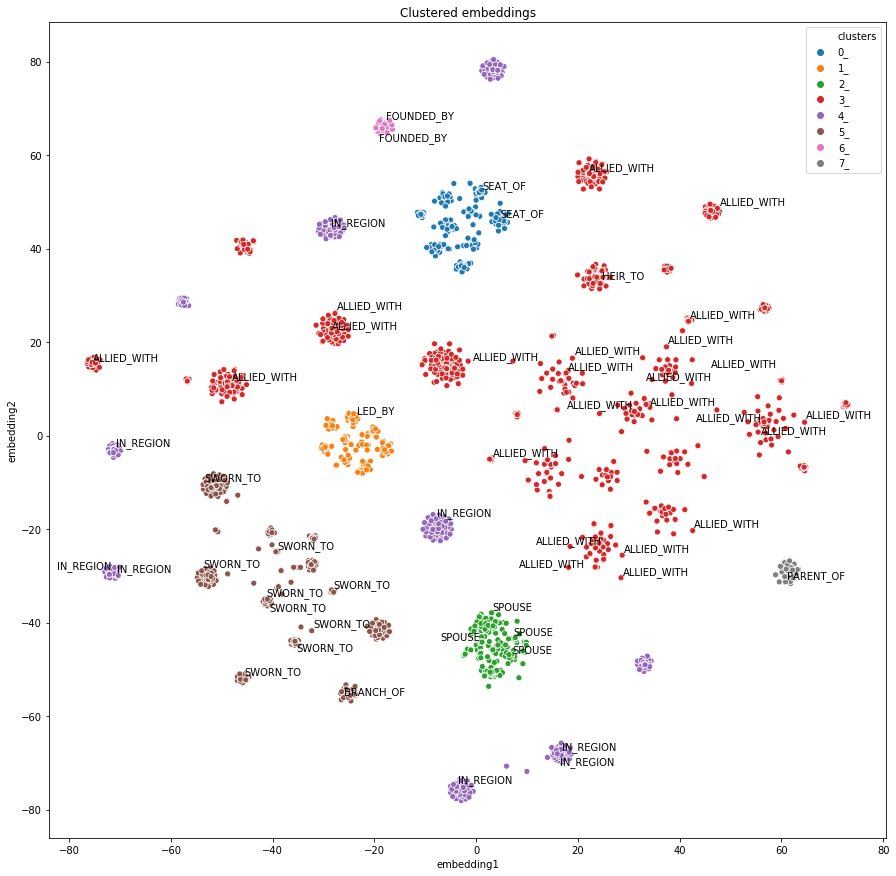
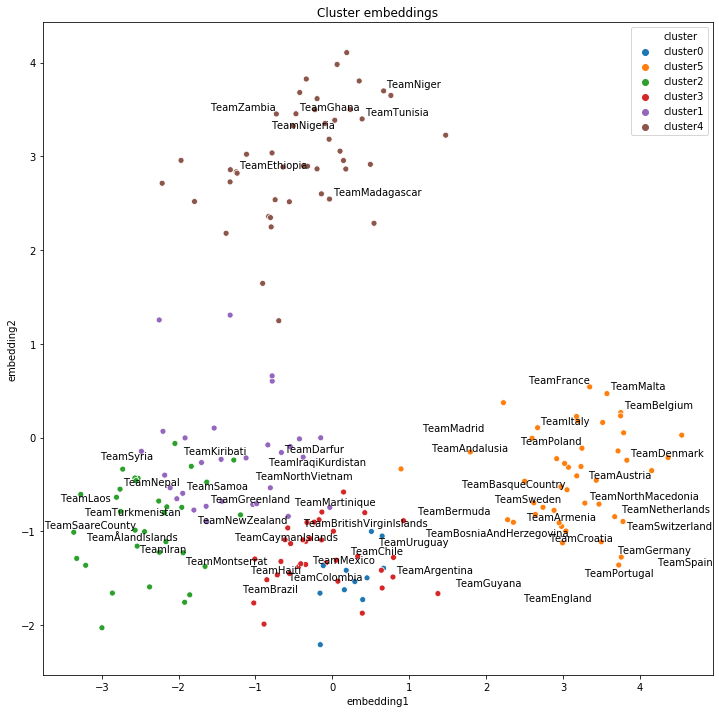
Improving find_duplicates API and docstring

diff --git a/ampligraph/discovery/discovery.py b/ampligraph/discovery/discovery.py
@@ -373,7 +373,7 @@ def _setdiff2d(A, B):
     return A[~ np.sum(np.cumsum(tmp, axis=0) * tmp == 1, axis=1).astype(bool)]
 
 
-def find_clusters(X, model, clustering_algorithm=DBSCAN(), entities_subset=None, relations_subset=None):
+def find_clusters(X, model, clustering_algorithm=DBSCAN(), mode="triple"):
     """
     Perform link-based cluster analysis on a knowledge graph.
 
@@ -383,8 +383,11 @@ def find_clusters(X, model, clustering_algorithm=DBSCAN(), entities_subset=None,
     Parameters
     ----------
 
-    X : ndarray, shape [n, 3]
-        The input knowledge graph (triples) to be clustered.
+    X : ndarray, shape [n, 3] or [n]
+        The input to be clustered.
+        X can either be the triples of a knowledge graph, its entities, or its relations.
+        The argument `mode` defines whether X is supposed an array of triples
+        or an array of either entities or relations.
     model : EmbeddingModel
         The fitted model that will be used to generate the embeddings.
         This model must have been fully trained already, be it directly with
@@ -397,16 +400,13 @@ def find_clusters(X, model, clustering_algorithm=DBSCAN(), entities_subset=None,
         to understand the clustering API provided by scikit-learn.
         The default clustering model is sklearn's DBSCAN with its default
         parameters.
-    entities_subset: ndarray, shape [n]
-        The entities to consider for clustering. This is a subset of all the
-        entities included in X.
-        If None, all entities will be clustered.
-        To exclude all relations from clustering, pass an empty array.
-    relations_subset: ndarray, shape [n]
-        The relation types to consider for clustering. This is a subset of
-        all the relation types included in X.
-        If None, all relations will be clustered.
-        To exclude all relations from clustering, pass an empty array.
+    mode: str
+        Clustering mode, whether 'triple', 'entity', or 'relation'.
+        For 'triple' clustering, the algorithm will cluster the concatenation
+        of the embeddings of the subject, predicate and object for each triple.
+        For 'entity' or 'relation' clustering, the algorithm will simply cluster
+        the embeddings of either the provided entities or relations.
+        Default: 'triple'.
 
     Returns
     -------
@@ -418,8 +418,8 @@ def find_clusters(X, model, clustering_algorithm=DBSCAN(), entities_subset=None,
     >>> import requests
     >>> import pandas as pd
     >>> import numpy as np
-    >>> from sklearn.manifold import TSNE
-    >>> from sklearn.cluster import DBSCAN
+    >>> from sklearn.decomposition import PCA
+    >>> from sklearn.cluster import KMeans
     >>> import matplotlib.pyplot as plt
     >>> import seaborn as sns
     >>>
@@ -428,88 +428,90 @@ def find_clusters(X, model, clustering_algorithm=DBSCAN(), entities_subset=None,
     >>>
     >>> from ampligraph.datasets import load_from_csv
     >>> from ampligraph.latent_features import ComplEx
-    >>> from ampligraph.discovery import find_clusters
+    >>> #from ampligraph.discovery import find_clusters
     >>>
-    >>> # Game of Thrones relations dataset
-    >>> url = 'https://ampligraph.s3-eu-west-1.amazonaws.com/datasets/GoT.csv'
-    >>> open('GoT.csv', 'wb').write(requests.get(url).content)
-    >>> X = load_from_csv('.', 'GoT.csv', sep=',')
+    >>> # International football matches triples
+    >>> url = 'https://ampligraph.s3-eu-west-1.amazonaws.com/datasets/football.csv'
+    >>> open('football.csv', 'wb').write(requests.get(url).content)
+    >>> X = load_from_csv('.', 'football.csv', sep=',')[:, 1:]
     >>>
-    >>> model = ComplEx(batches_count=10,
-    >>>                 seed=0,
-    >>>                 epochs=200,
-    >>>                 k=150,
-    >>>                 eta=5,
+    >>> model = ComplEx(batches_count=50,
+    >>>                 epochs=300,
+    >>>                 k=100,
+    >>>                 eta=20,
     >>>                 optimizer='adam',
-    >>>                 optimizer_params={'lr':1e-3},
+    >>>                 optimizer_params={'lr':1e-4},
     >>>                 loss='multiclass_nll',
     >>>                 regularizer='LP',
     >>>                 regularizer_params={'p':3, 'lambda':1e-5},
+    >>>                 seed=0,
     >>>                 verbose=True)
     >>> model.fit(X)
     >>>
-    >>> # Find clusters of embeddings using DBSCAN
-    >>> clusters = find_clusters(X, model, clustering_algorithm=DBSCAN(eps=10))
+    >>> df = pd.DataFrame(X, columns=["s", "p", "o"])
     >>>
-    >>> # Get embeddings
-    >>> s = model.get_embeddings(X[:, 0], embedding_type='entity')
-    >>> p = model.get_embeddings(X[:, 1], embedding_type='relation')
-    >>> o = model.get_embeddings(X[:, 2], embedding_type='entity')
+    >>> teams = np.unique(np.concatenate((df.s[df.s.str.startswith("Team")],
+    >>>                                   df.o[df.o.str.startswith("Team")])))
+    >>> team_embeddings = model.get_embeddings(teams, embedding_type='entity')
     >>>
-    >>> # Project embeddings into 2D space usint t-SNE
-    >>> embeddings_2d = TSNE(n_components=2).fit_transform(np.hstack((s, p, o)))
+    >>> embeddings_2d = PCA(n_components=2).fit_transform(np.array([i for i in team_embeddings]))
+    >>>
+    >>> # Find clusters of embeddings using KMeans
+    >>> kmeans = KMeans(n_clusters=6, n_init=100, max_iter=500)
+    >>> clusters = find_clusters(teams, model, kmeans, mode='entity')
     >>>
     >>> # Plot results
-    >>> df = pd.DataFrame({"s": X[:, 0], "p": X[:, 1], "o": X[:, 2],
-    >>>                    "embedding1": embeddings_2d[:, 0], "embedding2": embeddings_2d[:, 1], "clusters": clusters})
+    >>> df = pd.DataFrame({"teams": teams, "clusters": "cluster" + pd.Series(clusters).astype(str),
+    >>>                    "embedding1": embeddings_2d[:, 0], "embedding2": embeddings_2d[:, 1]})
     >>>
-    >>> plt.figure(figsize=(15, 15))
-    >>> plt.title("Clustered embeddings")
+    >>> plt.figure(figsize=(10, 10))
+    >>> plt.title("Cluster embeddings")
     >>>
-    >>> ax = sns.scatterplot(data=df.assign(clusters=df.clusters.apply(str)+'_'),
-    >>>                      x="embedding1", y="embedding2", hue="clusters")
+    >>> ax = sns.scatterplot(data=df, x="embedding1", y="embedding2", hue="clusters")
     >>>
     >>> texts = []
-    >>>
     >>> for i, point in df.iterrows():
-    >>>     if np.random.uniform() < 0.02:
-    >>>         texts.append(plt.text(point['embedding1']+.02, point['embedding2'], str(point['p'])))
-    >>>
+    >>>     if np.random.uniform() < 0.1:
+    >>>         texts.append(plt.text(point['embedding1']+.02, point['embedding2'], str(point['teams'])))
     >>> adjust_text(texts)
 
     .. image:: ../../docs/img/clustering/clustered_embeddings_docstring.png
 
     """
-
     if not model.is_fitted:
-        raise ValueError("Model has not been fitted.")
+        msg = "Model has not been fitted."
+        logger.error(msg)
+        raise ValueError(msg)
 
     if not hasattr(clustering_algorithm, "fit_predict"):
-        raise ValueError("Clustering algorithm does not have the "
-                         "`fit_predict` method.")
+        msg = "Clustering algorithm does not have the `fit_predict` method."
+        logger.error(msg)
+        raise ValueError(msg)
 
-    s = model.get_embeddings(X[:, 0], embedding_type='entity')
-    p = model.get_embeddings(X[:, 1], embedding_type='relation')
-    o = model.get_embeddings(X[:, 2], embedding_type='entity')
+    modes = ("triple", "entity", "relation")
+    if mode not in modes:
+        msg = "Argument `mode` must be one of the following: {}.".format(", ".join(modes))
+        logger.error(msg)
+        raise ValueError(msg)
 
-    mask = np.ones(len(X), dtype=np.bool)
+    if mode == "triple" and (len(X.shape) != 2 or X.shape[1] != 3):
+        msg = "For 'triple' mode the input X must be a matrix with three columns."
+        logger.error(msg)
+        raise ValueError(msg)
 
-    if entities_subset is not None:
-        if len(entities_subset) == 0:
-            s = np.empty(p.shape)
-            o = np.empty(p.shape)
-        else:
-            mask &= ~(np.isin(X[:, 0], entities_subset) | np.isin(X[:, 2], entities_subset))
+    if mode in ("entity", "relation") and len(X.shape) != 1:
+        msg = "For 'entity' or 'relation' mode the input X must be an array."
+        raise ValueError(msg)
 
-    if relations_subset is not None:
-        if len(relations_subset) == 0:
-            p = np.empty(s.shape)
-        else:
-            mask &= ~np.isin(X[:, 1], relations_subset)
+    if mode == "triple":
+        s = model.get_embeddings(X[:, 0], embedding_type='entity')
+        p = model.get_embeddings(X[:, 1], embedding_type='relation')
+        o = model.get_embeddings(X[:, 2], embedding_type='entity')
+        emb = np.hstack((s, p, o))
+    else:
+        emb = model.get_embeddings(X, embedding_type=mode)
 
-    X = np.hstack((s, p, o))[mask]
-
-    return clustering_algorithm.fit_predict(X)
+    return clustering_algorithm.fit_predict(emb)
 
 
 def find_duplicates(X, model, entities_subset=None, metric='l2',

diff --git a/tests/ampligraph/discovery/test_discovery.py b/tests/ampligraph/discovery/test_discovery.py
@@ -185,21 +185,26 @@ def test_find_clusters():
     model.fit(X)
     clustering_algorithm = DBSCAN(min_samples=1)
 
-    expected_clusters = np.array([0, 1, 2, 3, 4, 5, 6, 7])
-
     labels = find_clusters(X, model, clustering_algorithm)
-    assert np.array_equal(labels, expected_clusters)
-    labels = find_clusters(X, model, clustering_algorithm, entities_subset=[])
-    assert np.array_equal(labels, expected_clusters)
-    labels = find_clusters(X, model, clustering_algorithm, relations_subset=[])
-    assert np.array_equal(labels, expected_clusters)
+    assert np.array_equal(labels, np.array([0, 1, 2, 3, 4, 5, 6, 7]))
 
-    labels = find_clusters(X, model, clustering_algorithm,
-                           entities_subset=['a', 'b'])
-    assert labels.shape == (2,)
-    labels = find_clusters(X, model, clustering_algorithm,
-                           relations_subset=['x'])
-    assert labels.shape == (7,)
+    labels = find_clusters(np.unique(X[:, 0]), model, clustering_algorithm, mode='entity')
+    assert np.array_equal(labels, np.array([0, 1, 2, 3]))
+
+    labels = find_clusters(np.unique(X[:, 1]), model, clustering_algorithm, mode='relation')
+    assert np.array_equal(labels, np.array([0, 1]))
+
+    labels = find_clusters(np.unique(X[:, 2]), model, clustering_algorithm, mode='entity')
+    assert np.array_equal(labels, np.array([0, 1, 2, 3, 4]))
+
+    with pytest.raises(ValueError):
+        find_clusters(X, model, clustering_algorithm, mode='hah')
+    with pytest.raises(ValueError):
+        find_clusters(X, model, clustering_algorithm, mode='entity')
+    with pytest.raises(ValueError):
+        find_clusters(X, model, clustering_algorithm, mode='relation')
+    with pytest.raises(ValueError):
+        find_clusters(np.unique(X[:, 0]), model, clustering_algorithm, mode='triple')
 
 
 def test_find_duplicates():
